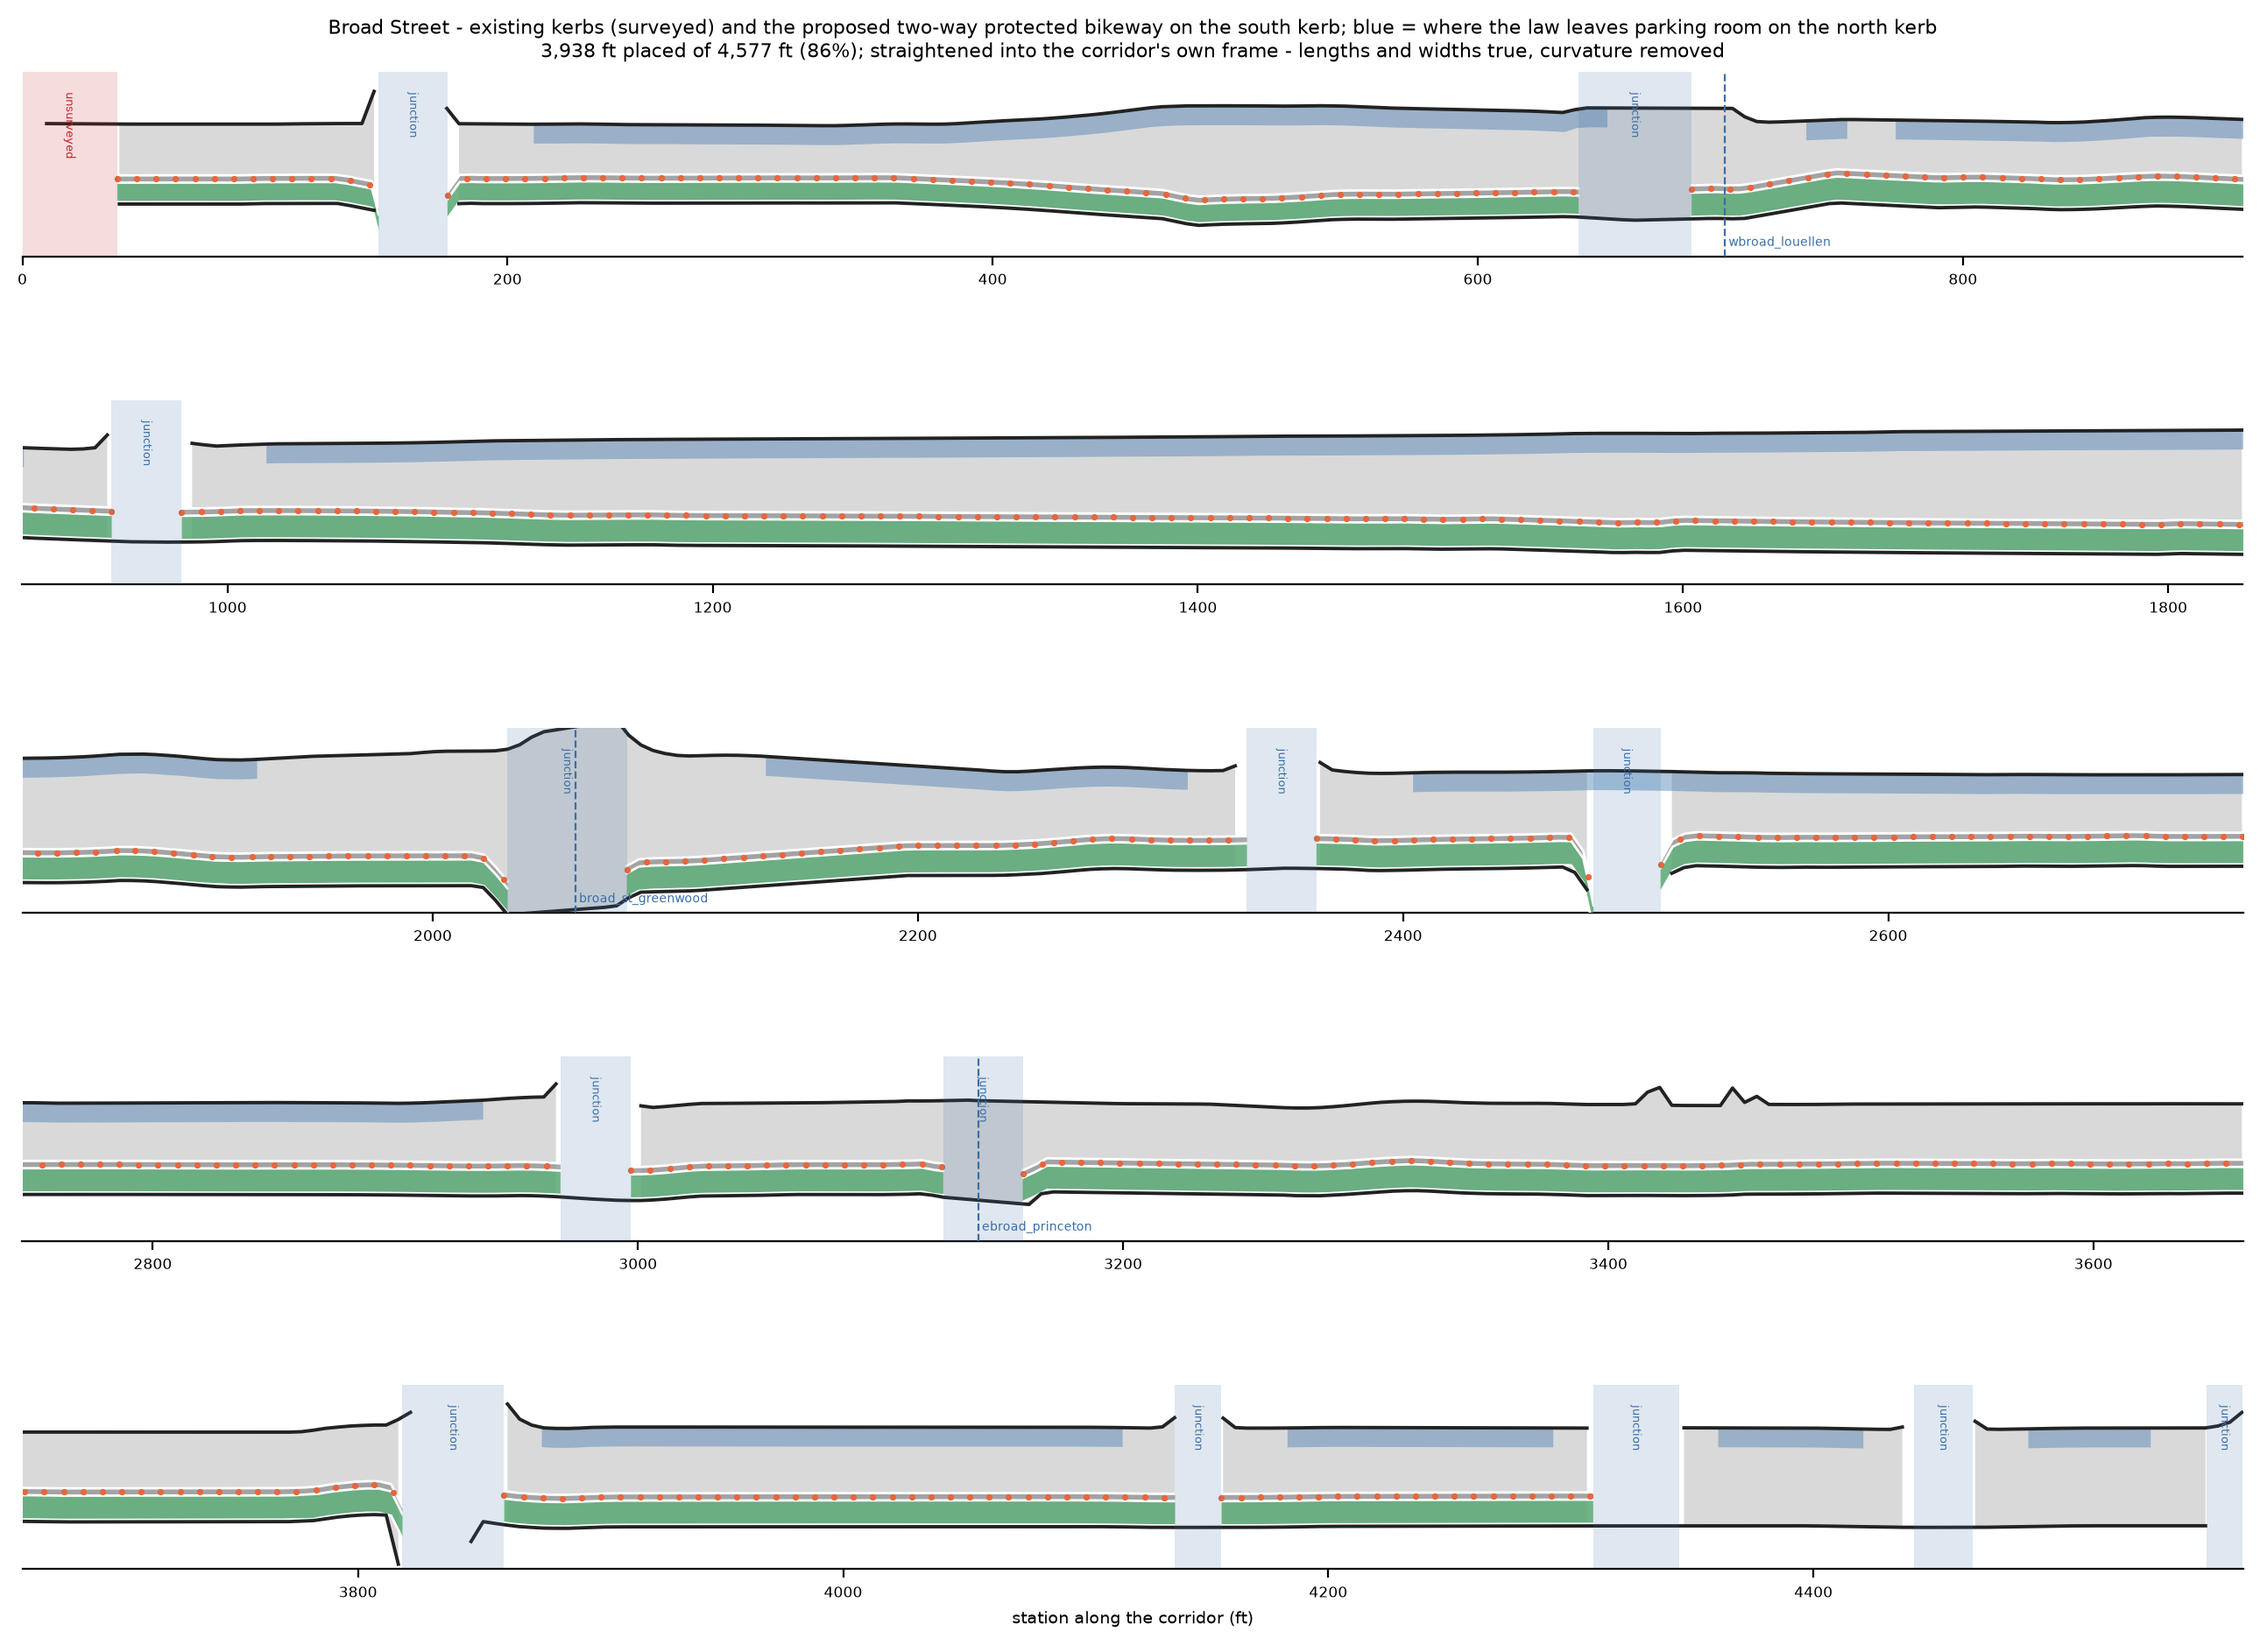
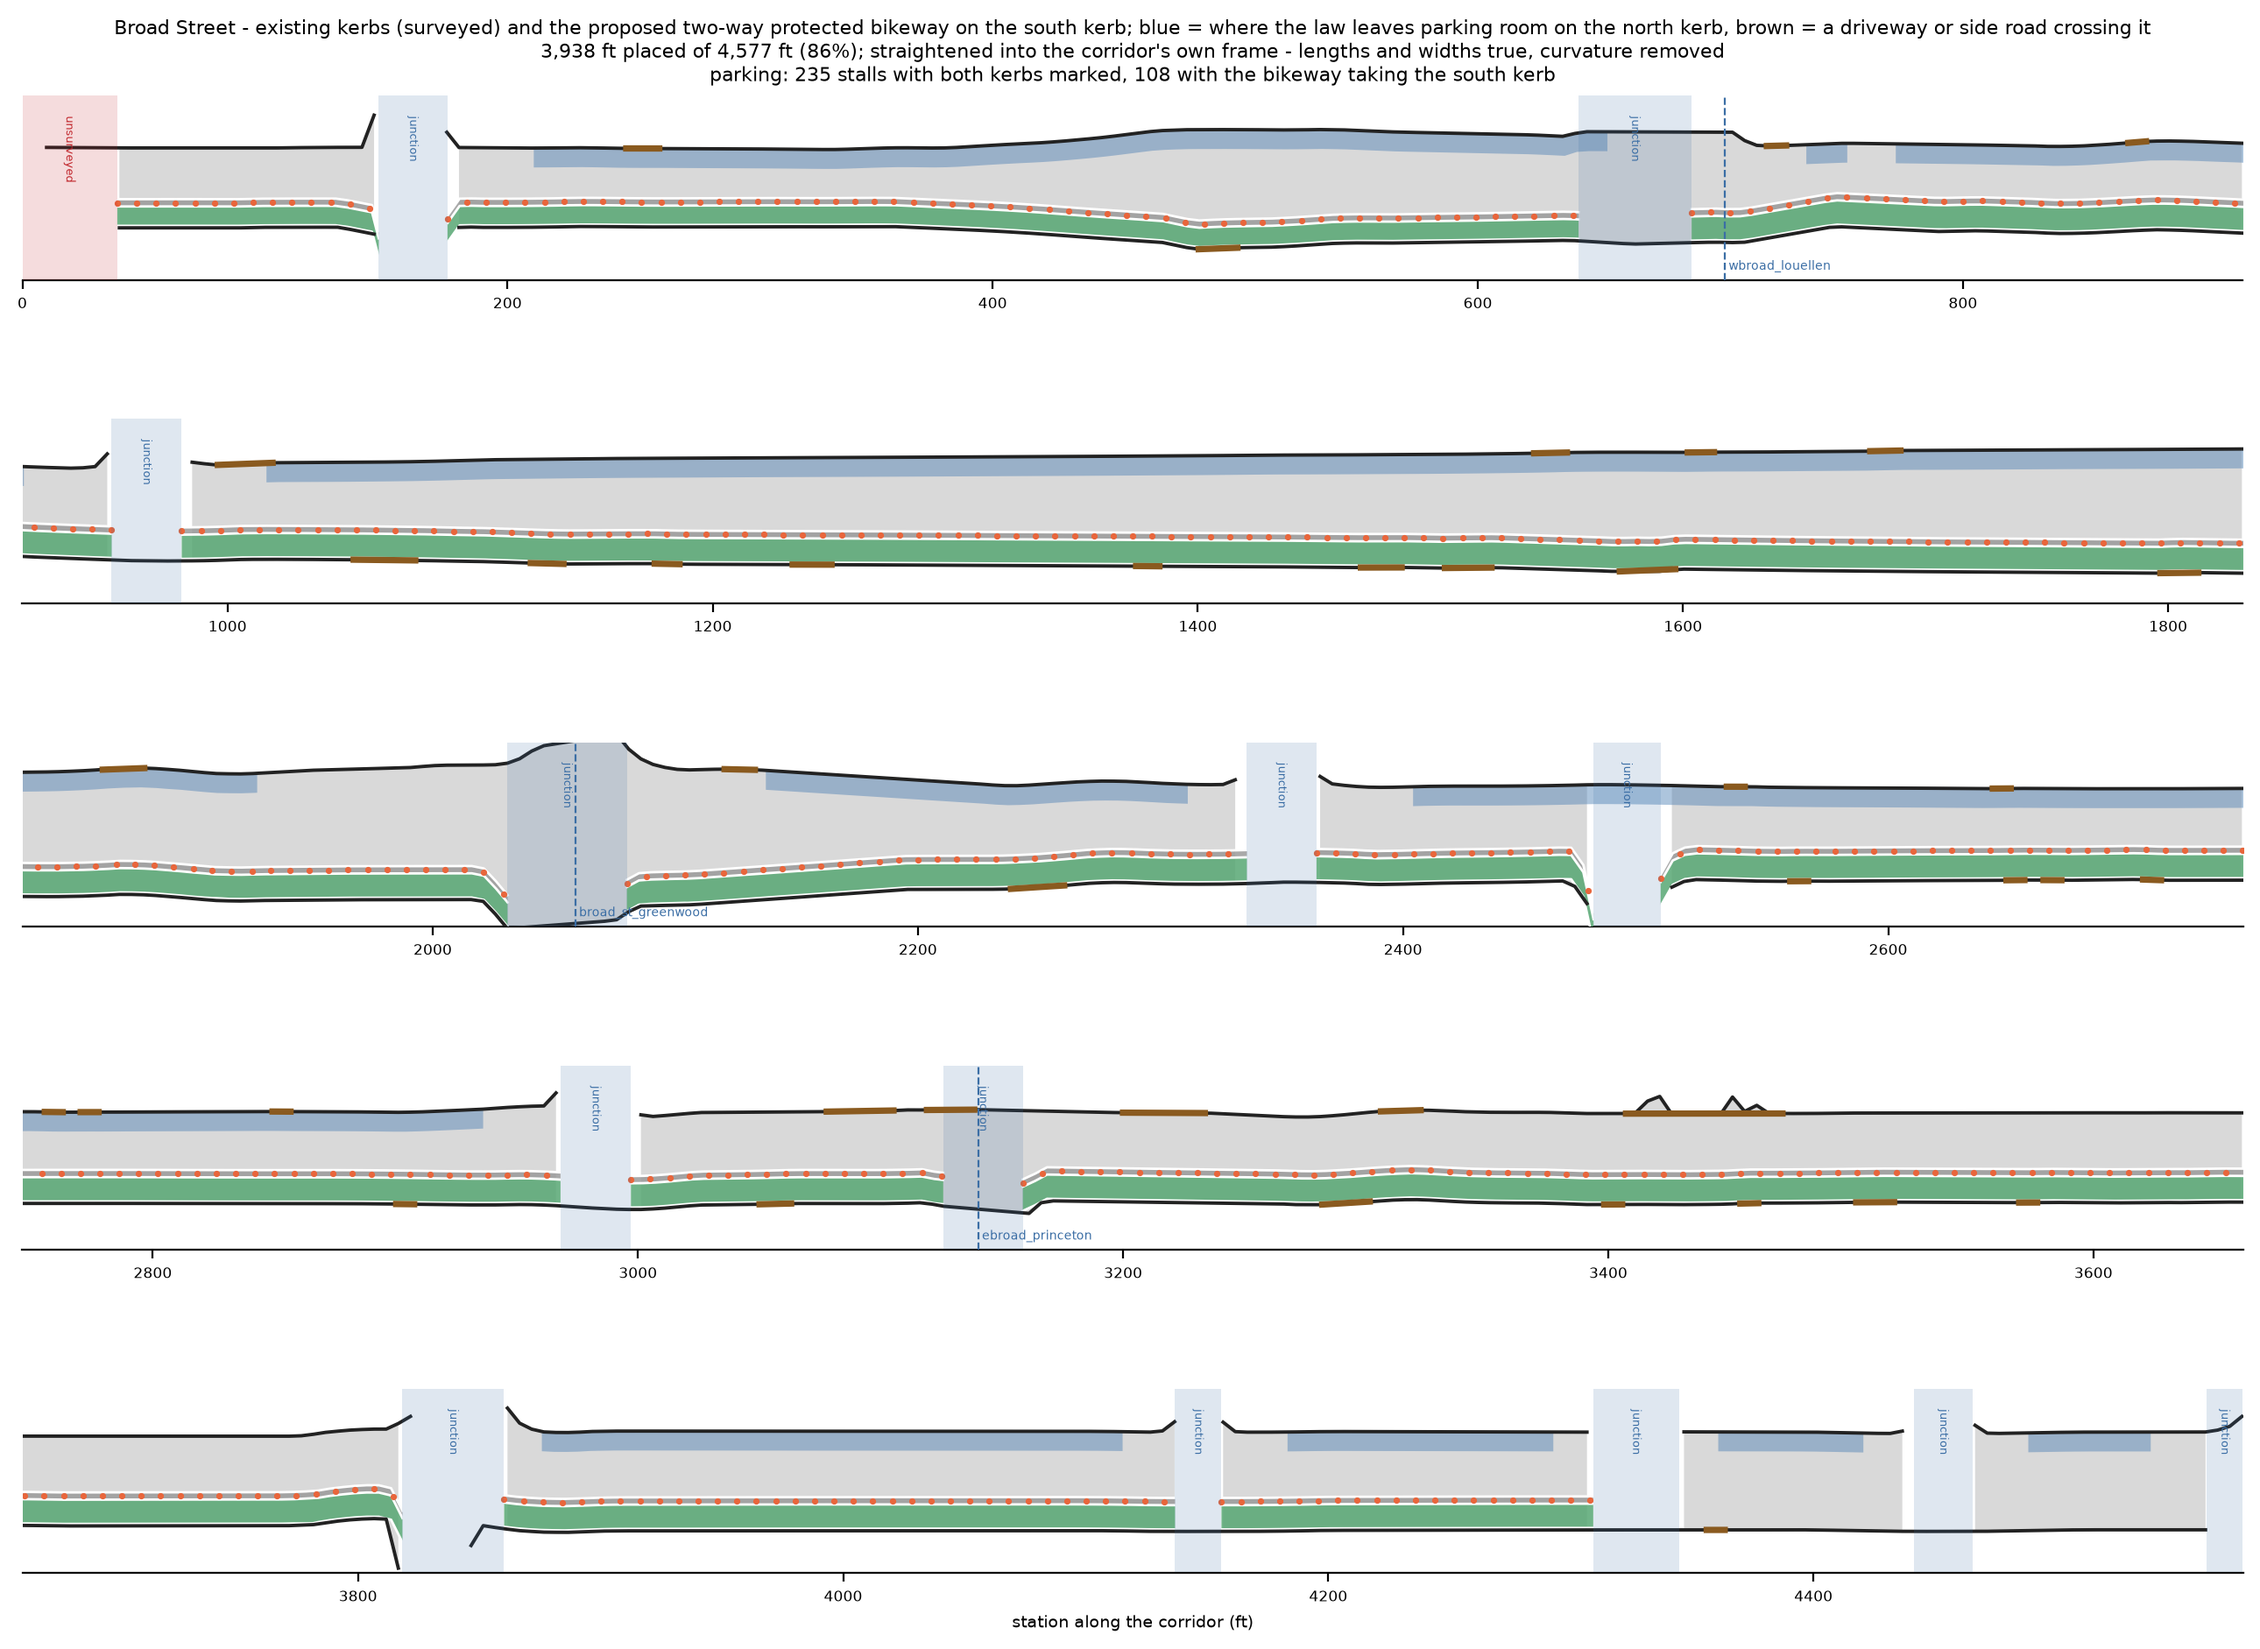
Draw the driveway openings, and count what the bikeway costs in stalls
Openings are drawn on the kerb they actually break, because that is the asymmetry the corridor
turns on: a driveway on the north kerb interrupts the PARKING, and one on the south interrupts
the BIKEWAY. Same surveyed feature, two different consequences, and a drawing that put them on a
centreline would show neither.

And the stall count both ways, which is the first question this proposal gets asked:

    north kerb   108 stalls over 2,647 ft
    south kerb   127 stalls over 3,027 ft
    both kerbs marked                       235
    two-way bikeway on the south kerb       108   (-127)

Counted over kerb that R.S. 39:4-138 leaves parkable AND that is clear of a driveway mouth -
(f) forbids parking in front of a driveway, and the openings are resolved separately from the
no-parking zones, so this is where the two finally meet. Through marked_parking_capacity and
parking_stall_count_ft, the same counter parking_stall_lines_ft draws with, so a corridor total
and a drawn stall cannot disagree about how long a car is.

WHAT THIS NUMBER IS NOT, and it matters before it is quoted anywhere: it is legal room clear of
driveways, not the yield of a design. It does not test whether the street is wide enough to mark
a stall after the travel lanes are held at target, which is the difference the corridor report
already prints as 215 length-only against 199 width-tested. A width-tested pair is the honest
figure for a before/after and it is not in this commit.

diff --git a/scripts/corridor_render.py b/scripts/corridor_render.py
@@ -32,7 +32,8 @@ from src.geometry.corridor_paint import (CORRIDOR_SAMPLE_FT, JUNCTION_MOUTH,
                                          centred_on_its_kerbs, kerb_offset_ft, paint_facility, parking_bands)
 from src.geometry.intersection import load_intersection_model
 from src.geometry.model import station_offset_many
-from src.geometry.network import corridor_facts, corridors_from_models
+from src.geometry.network import (_complement_spans, _merged_spans, corridor_facts,
+                                  corridors_from_models, marked_parking_capacity)
 from src.geometry.treatments import BROAD_ST_TWO_WAY_BIKEWAY
 from src.site import list_sites
 
@@ -43,6 +44,7 @@ BUFFER_GREY = "#9a9a9a"
 PAINT_WHITE = "#ffffff"
 POST = "#e8663c"
 PARKING_BLUE = "#4b7fb5"
+OPENING = "#8a5a1f"
 GAP_RED = "#c1272d"
 MOUTH_BLUE = "#3b6ea5"
 
@@ -57,7 +59,7 @@ def straighten(corridor, geometry):
     return np.column_stack([stations, offsets])
 
 
-def draw_panel(ax, corridor, paint, parking, lo_ft, hi_ft, half_ft):
+def draw_panel(ax, corridor, paint, parking, openings, lo_ft, hi_ft, half_ft):
     grid = np.arange(lo_ft, hi_ft, CORRIDOR_SAMPLE_FT)
     left = np.array([kerb_offset_ft(corridor, "left", float(s)) or np.nan for s in grid])
     right = np.array([-(kerb_offset_ft(corridor, "right", float(s)) or np.nan) for s in grid])
@@ -97,6 +99,19 @@ def draw_panel(ax, corridor, paint, parking, lo_ft, hi_ft, half_ft):
             inside = (st >= lo_ft) & (st <= hi_ft)
             ax.plot(st[inside], off[inside], linestyle="none", marker="o", markersize=1.6,
                     color=POST, zorder=5)
+
+    # WHERE A VEHICLE CROSSES THE KERB. Drawn on the kerb it actually breaks, because that is the
+    # asymmetry that matters here: a driveway on the north kerb interrupts the parking, and one on
+    # the south interrupts the bikeway - the same feature with two different consequences.
+    for side, start, end in openings:
+        if end < lo_ft or start > hi_ft:
+            continue
+        sign = 1.0 if side == "left" else -1.0
+        at = np.array([max(start, lo_ft), min(end, hi_ft)])
+        offs = np.array([kerb_offset_ft(corridor, side, float(x)) or np.nan for x in at])
+        if not np.isfinite(offs).all():
+            continue
+        ax.plot(at, sign * offs, color=OPENING, lw=2.6, solid_capstyle="butt", zorder=9)
 
     # Where the route breaks, and why - drawn, not left to the caption.
     # Labelled by WHAT the refusal actually was. A stretch the section could not fit and a
@@ -162,18 +177,39 @@ def main() -> int:
     print(f"  parking room on the {far_compass} kerb: {parkable_ft:,.0f} ft in {len(parking)} "
           f"stretch(es), where R.S. 39:4-138 and OSM leave it legal")
 
+    openings = tuple((side, opening.start_ft, opening.end_ft) for side, opening in facts.openings)
+    stalls = {}
+    for side, compass in ((far_side, far_compass), (paint.side, paint.compass_side)):
+        mine = _merged_spans([(lo, hi) for s, lo, hi in openings if s == side])
+        # R.S. 39:4-138(f) forbids parking in front of a driveway, so a mouth is subtracted rather
+        # than counted. _no_parking_zones_on applies (e), (h) and (i); the openings are resolved
+        # separately, so this is where the two meet.
+        clear = _complement_spans(mine, 0.0, corridor.length_ft)
+        stalls[compass] = marked_parking_capacity(corridor, facts, side, within=clear)
+    print("\n  STALLS, counted over kerb that is legally parkable and clear of a driveway mouth:")
+    for compass, (count, over_ft) in stalls.items():
+        print(f"    {compass:5s} kerb  {count:4d} stalls over {over_ft:6,.0f} ft")
+    both = sum(count for count, _ft in stalls.values())
+    kept = stalls[far_compass][0]
+    print(f"    default treatment (both kerbs marked)        {both:4d}")
+    print(f"    two-way bikeway on the {paint.compass_side} kerb          "
+          f"{kept:4d}   ({kept - both:+d}, the {paint.compass_side} kerb's "
+          f"{stalls[paint.compass_side][0]} give way to the lane)")
+
     half_ft = 38.0
     edges = np.linspace(0.0, corridor.length_ft, args.panels + 1)
     fig, axes = plt.subplots(args.panels, 1, figsize=(13, 2.0 * args.panels))
     for ax, lo, hi in zip(np.atleast_1d(axes), edges[:-1], edges[1:]):
-        draw_panel(ax, corridor, paint, parking, float(lo), float(hi), half_ft)
+        draw_panel(ax, corridor, paint, parking, openings, float(lo), float(hi), half_ft)
     axes[0].set_title(
         f"{corridor.name} - existing kerbs (surveyed) and the proposed two-way protected bikeway "
         f"on the {paint.compass_side} kerb; blue = where the law leaves parking room on the "
-        f"{far_compass} kerb\n"
+        f"{far_compass} kerb, brown = a driveway or side road crossing it\n"
         f"{paint.placed_ft:,.0f} ft placed of {corridor.length_ft:,.0f} ft "
         f"({paint.placed_ft / corridor.length_ft:.0%}); straightened into the corridor's own frame "
-        f"- lengths and widths true, curvature removed", fontsize=8)
+        f"- lengths and widths true, curvature removed\n"
+        f"parking: {both} stalls with both kerbs marked, {kept} with the bikeway taking the "
+        f"{paint.compass_side} kerb", fontsize=8)
     axes[-1].set_xlabel("station along the corridor (ft)", fontsize=7)
     fig.tight_layout()
 
